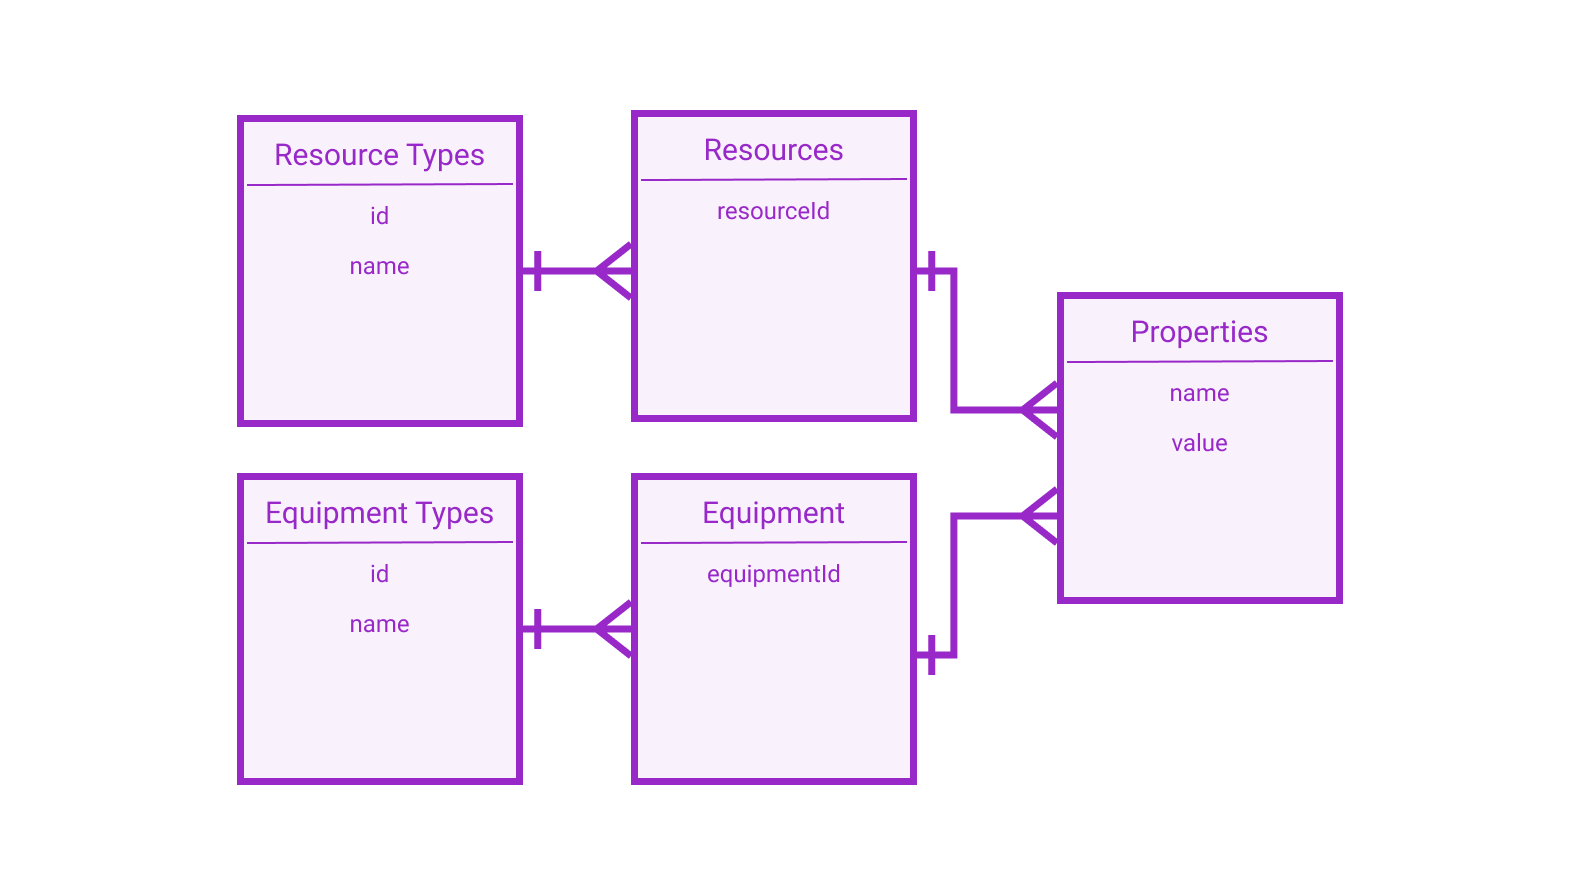
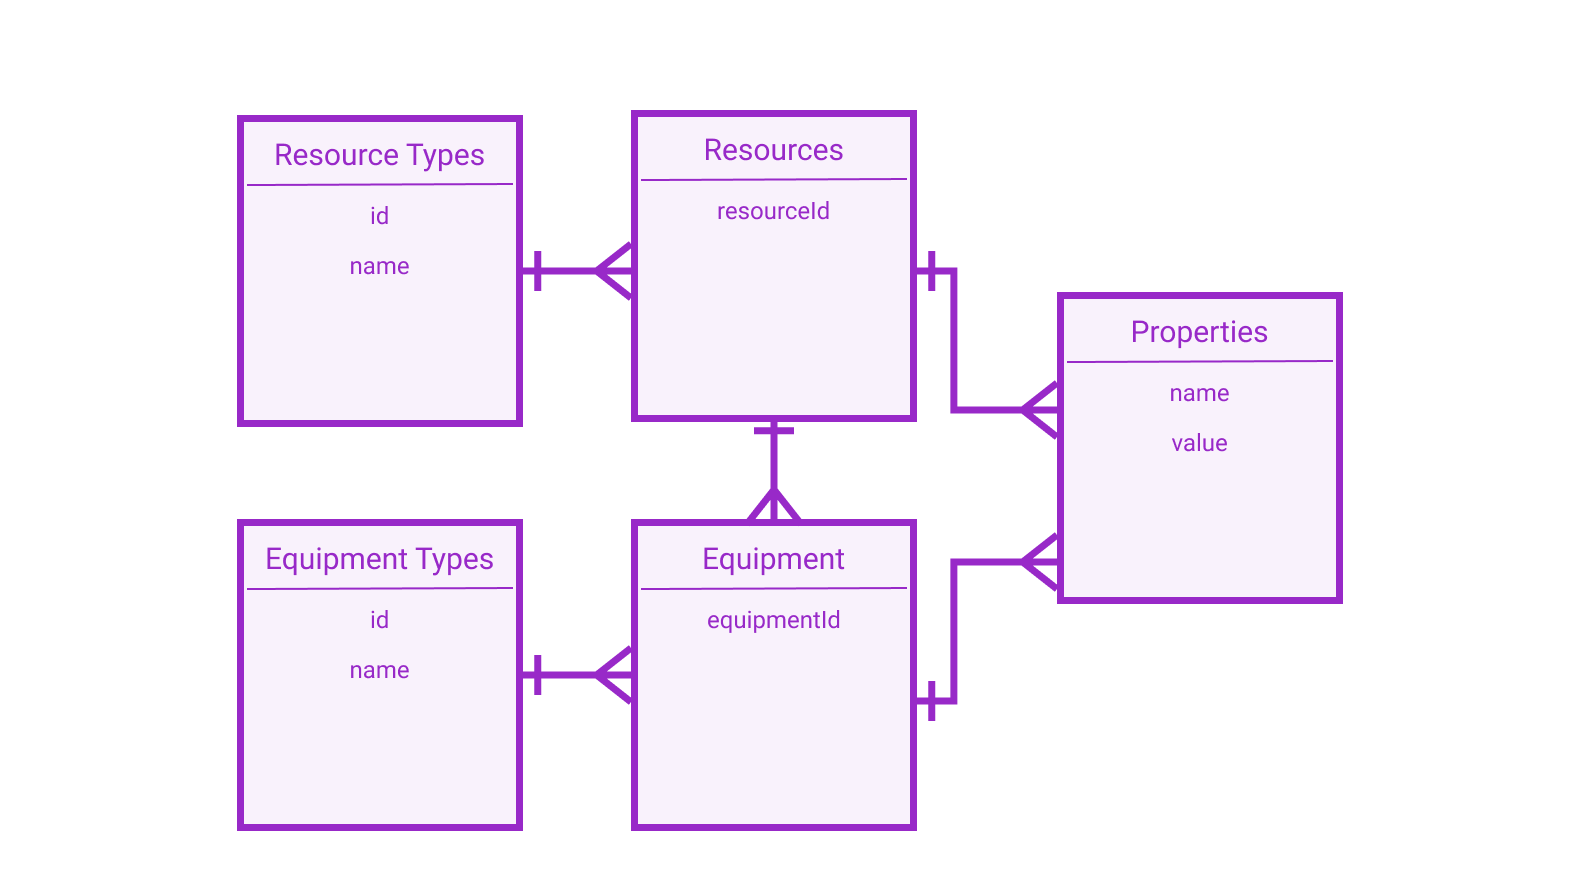
add data models

diff --git a/docs/datenmodell/README.md b/docs/datenmodell/README.md
@@ -13,7 +13,7 @@ Manche der im Architekturentwurf vorgestellten Komponenten benötigen eine inter
 ## Condition Service
 
 Der Condition Service verfügt über die komplexeste Datenhaltung der Komponenten. Es werden *Conditions* (Bedingungen) verwaltet, die von einem Bedingungstypen sind und über Eingabeparameter verfügen. Eine Bedinung muss einer Ressource zugeordnet werden. Wird aus dem Booking Service eine Buchung für eine Ressource angefragt, wird ein *Check* (Abfrage) im Condition Service erstellt. Diese Abfrage gibt die Parameterwerte an die jeweilen Bedingungen weiter und überprüft den Status. Weitere Informationen über die Conditions finden sie [hier](../ConditionService.md)
-### ERD
+### Datenmodell
 
 ![Datenmodell Condition Service](../assets/datenmodell-conditions-service.png)
 
@@ -34,9 +34,9 @@ Der Condition Service verfügt über die komplexeste Datenhaltung der Komponente
 
 | condition | name | value | 
 |--|--|--|
-| 2 | allowedRoles | [Student, Prof] |
-| 3 | timeInAdvanceInHours | 24 |
-| 5 | timeInAdvanceInHours | 24 |
+| 2 | "allowedRoles" | [Student, Prof] |
+| 3 | "timeInAdvanceInHours" | 24 |
+| 5 | "timeInAdvanceInHours" | 24 |
 
 **Conditions**
 
@@ -64,13 +64,66 @@ Der Condition Service verfügt über die komplexeste Datenhaltung der Komponente
 
 Der Booking Service verwaltet ausschließlich Buchungen von Ressourcen. Alle weiteren Informationen werden aus den anderen Services abgefragt und Referenzen auf Datensätzen aus anderen Services abgespeichert.
 
+### Datenmodell
+
 ![Datenmodell Booking Service](../assets/datenmodell-booking-service.png)
+
+### Beispieldaten
+
+| bookingId | resourceId | bookedBy | from | to | status
+|--|--|--|--|--|--|
+| 1 | THK-GM01-0301  | ybruegge |  01.10.2022 12:00 |  01.10.2022 13:00 | booked  |
+| 2 | THK-CGN01-0200 | bengel   |  04.10.2022 09:30 |  01.10.2022 10:30 | pending |
 
 ## Equipment Service
 
 Dieser Service verwaltet Ressourcen und Equipment. Ressourcen sind grundsätzlich alles, was buchbar ist, wie Räume oder ein mobiles Whiteboard. Eine Ressource kann über Equipment verfügen, wie beispielsweise die Ausstattung eines Raumes. Equipment und Ressourcen können durch weitere dynamische Eigenschaften erweitert werden.
 
+### Datenmodell
+
 ![Datenmodell Equipment Service](../assets/datenmodell-equipment-service.png)
+
+### Beispieldaten
+
+**Resource Types**
+
+| name | 
+|--|
+| room |
+| workplace |
+| smartboard |
+
+**Resources**
+
+| resourceId | resourceType | name |
+|--|--|--|
+| 1 | room | "3216 - MI Studio" |
+| 2 | smartboard | "Philips Smartboard" |
+| 3 | workplace | "Workstation 01" |
+
+**Properties**
+
+| resourceId | name | value |
+|--|--|--|
+| 1 | "size" | "25m²" |
+| 1 | "seats" | "50" |
+| 1 | "seatingType" | "loose" |
+| 2 | "size" | "40 inches" |
+| 2 | "brand" | "Microsoft" |
+| 2 | "model" | "Surface Hub Pro 3" |
+| 3 | "software" | "Paint, Word, Gimp" |
+
+**Properties**
+
+| resourceId | name | value |
+|--|--|--|
+| 1 | "size" | "25m²" |
+| 1 | "seats" | "50" |
+| 1 | "seatingType" | "loose" |
+| 2 | "size" | "40 inches" |
+| 2 | "brand" | "Microsoft" |
+| 2 | "model" | "Surface Hub Pro 3" |
+| 3 | "software" | "Paint, Word, Gimp" |
 
 ## Location Service
 
